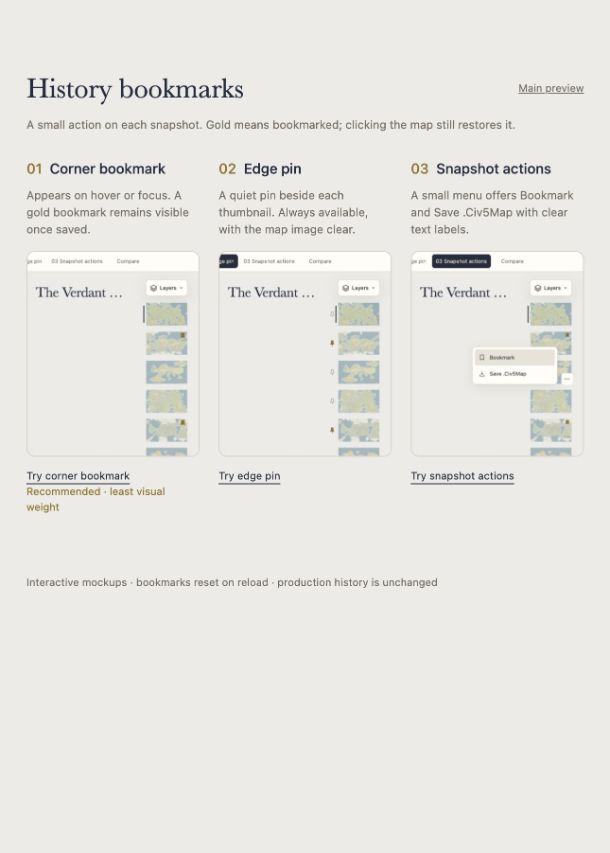
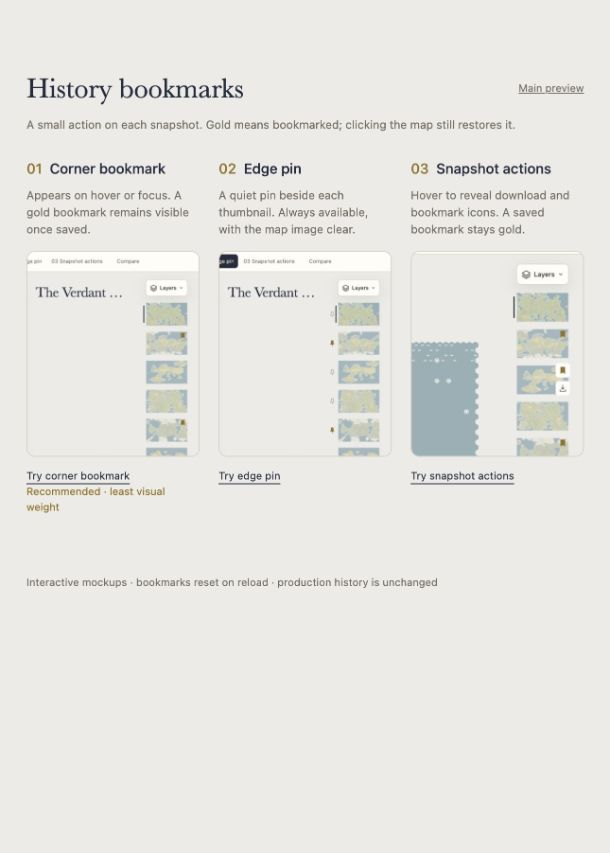
feat(mockups): show direct snapshot actions on hover
Replace the 03 ellipsis menu with download and bookmark buttons. Reveal both on hover or keyboard focus, retain the gold bookmark at rest, and keep each action independent of restoring a snapshot.

Verified pointer and keyboard toggles, idle and focus visibility, retained bookmark state, JavaScript syntax and scoped ESLint. Refresh the comparison and previews.

Changed region(s): [[0.6541, 0.3048, 0.9344, 0.5487], [0.6541, 0.2134, 0.9344, 0.3658]]

diff --git a/mockups/v3/history-bookmarks/studies.js b/mockups/v3/history-bookmarks/studies.js
@@ -1,53 +1,37 @@
 /* Isolated bookmark studies. Never open or update the persistent snapshot store. */
 (() => {
   const variant=document.body.dataset.bookmarkStudy,list=$('world-list'),bookmarks=new Set();
-  const paths={bookmark:'<path class="bookmark-shape" d="M6 3h12v18l-6-4-6 4Z"/>',pin:'<path class="pin-head" d="M8 3h8l-1 7 3 4v2H6v-2l3-4Z"/><path d="M12 16v6"/>',more:'<circle cx="5" cy="12" r="1"/><circle cx="12" cy="12" r="1"/><circle cx="19" cy="12" r="1"/>',download:'<path d="M12 3v12m-4-4 4 4 4-4M4 16v5h16v-5"/>'};
+  const paths={bookmark:'<path class="bookmark-shape" d="M6 3h12v18l-6-4-6 4Z"/>',pin:'<path class="pin-head" d="M8 3h8l-1 7 3 4v2H6v-2l3-4Z"/><path d="M12 16v6"/>',download:'<path d="M12 3v12m-4-4 4 4 4-4M4 16v5h16v-5"/>'};
   const svg=key=>`<svg viewBox="0 0 24 24" fill="none" stroke="currentColor" stroke-width="1.5" stroke-linecap="round" stroke-linejoin="round" aria-hidden="true">${paths[key]}</svg>`;
   const original=current;
   history=[...samples.slice(1),...samples.slice(1)].map(sample=>{const world=sampleWorld(sample);world.change='Study snapshot';return world;});
   history.push(original);
   const shown=[...history].reverse();for(const index of [1,4])if(shown[index])bookmarks.add(shown[index].uid);
   const note=document.createElement('small');note.className='bookmark-study-note';note.textContent='Mockup · bookmarks reset on reload';document.querySelector('.workspace').append(note);
-  const menu=document.createElement('div');menu.className='snapshot-menu';menu.id='snapshot-actions';menu.hidden=true;menu.setAttribute('role','menu');menu.setAttribute('aria-label','Snapshot actions');document.body.append(menu);
-  let openAction=null;
-  function closeMenu(focus=false){const button=openAction;menu.hidden=true;openAction=null;button?.setAttribute('aria-expanded','false');if(focus)button?.focus({preventScroll:true});}
   function syncRow(row,button,world){
     const marked=bookmarks.has(world.uid);row.classList.toggle('is-bookmarked',marked);
-    if(variant==='actions'){
-      button.title=`Actions for ${world.title}`;button.setAttribute('aria-label',button.title);
-      row.querySelector('.snapshot-bookmark-mark')?.remove();
-      if(marked){const mark=document.createElement('span');mark.className='snapshot-bookmark-mark';mark.innerHTML=svg('bookmark');mark.setAttribute('aria-hidden','true');row.append(mark);}
-      row.querySelector('.world-card').setAttribute('aria-description',marked?'Bookmarked':'');
-    }else{
-      const verb=variant==='pin'?(marked?'Unpin':'Pin'):(marked?'Remove bookmark from':'Bookmark');
-      button.setAttribute('aria-pressed',String(marked));button.title=`${verb} ${world.title}`;button.setAttribute('aria-label',button.title);
-    }
+    const verb=variant==='pin'?(marked?'Unpin':'Pin'):(marked?'Remove bookmark from':'Bookmark');
+    button.setAttribute('aria-pressed',String(marked));button.title=`${verb} ${world.title}`;button.setAttribute('aria-label',button.title);
+    row.querySelector('.world-card').setAttribute('aria-description',marked?'Bookmarked':'');
   }
   function toggle(row,button,world){if(bookmarks.has(world.uid))bookmarks.delete(world.uid);else bookmarks.add(world.uid);syncRow(row,button,world);toast(bookmarks.has(world.uid)?'Bookmarked for this mockup.':'Bookmark removed.');}
   function saveSnapshot(world){
     try{const bytes=window.V3ExistingRules.save(world.map,world.originalBytes),url=URL.createObjectURL(new Blob([bytes],{type:'application/octet-stream'})),link=document.createElement('a');link.href=url;link.download=(world.map.name||world.title||'Excogitare map').replace(/[\\/:*?"<>|]/g,'-')+'.Civ5Map';document.body.append(link);link.click();link.remove();setTimeout(()=>URL.revokeObjectURL(url),60000);}
     catch(error){toast(error.message||'This snapshot could not be saved.');}
   }
-  function openMenu(row,button,world){
-    if(openAction===button){closeMenu(true);return;}closeMenu();openAction=button;button.setAttribute('aria-expanded','true');menu.replaceChildren();
-    const bookmark=document.createElement('button');bookmark.type='button';bookmark.setAttribute('role','menuitemcheckbox');bookmark.setAttribute('aria-checked',String(bookmarks.has(world.uid)));bookmark.innerHTML=svg('bookmark')+'<span>Bookmark</span>';bookmark.onclick=()=>{toggle(row,button,world);closeMenu(true);};
-    const save=document.createElement('button');save.type='button';save.setAttribute('role','menuitem');save.innerHTML=svg('download')+'<span>Save .Civ5Map</span>';save.onclick=()=>{closeMenu(true);saveSnapshot(world);};menu.append(bookmark,save);menu.hidden=false;
-    const rect=button.getBoundingClientRect();menu.style.left=`${Math.max(8,rect.left-menu.offsetWidth-8)}px`;menu.style.top=`${Math.max(8,Math.min(innerHeight-menu.offsetHeight-8,rect.bottom-menu.offsetHeight))}px`;bookmark.focus({preventScroll:true});
-  }
   const baseRender=renderShelf;
   renderShelf=function(){
-    closeMenu();baseRender();const worlds=history.filter(world=>!showKept||world.kept).reverse();
+    baseRender();const worlds=history.filter(world=>!showKept||world.kept).reverse();
     for(const [index,card] of [...list.children].entries()){
       const world=worlds[index];if(!world)continue;
       const row=document.createElement('div');row.className='snapshot-row';row.dataset.snapshotId=String(world.uid);card.replaceWith(row);row.append(card);
-      const button=document.createElement('button');button.type='button';button.className='snapshot-action';button.innerHTML=svg(variant==='pin'?'pin':variant==='actions'?'more':'bookmark');
-      if(variant==='actions'){button.setAttribute('aria-haspopup','menu');button.setAttribute('aria-expanded','false');button.setAttribute('aria-controls',menu.id);}
-      button.onclick=event=>{event.stopPropagation();if(variant==='actions')openMenu(row,button,world);else toggle(row,button,world);};row.append(button);syncRow(row,button,world);
+      const button=document.createElement('button');button.type='button';button.className='snapshot-action snapshot-bookmark';button.innerHTML=svg(variant==='pin'?'pin':'bookmark');
+      button.onclick=event=>{event.stopPropagation();toggle(row,button,world);};row.append(button);syncRow(row,button,world);
+      if(variant==='actions'){
+        const download=document.createElement('button');download.type='button';download.className='snapshot-action snapshot-download';download.innerHTML=svg('download');download.title=`Download ${world.title} (.Civ5Map)`;download.setAttribute('aria-label',download.title);
+        download.onclick=event=>{event.stopPropagation();saveSnapshot(world);};row.append(download);
+      }
     }
   };
-  menu.addEventListener('keydown',event=>{const items=[...menu.querySelectorAll('button')],index=items.indexOf(document.activeElement);if(['ArrowDown','ArrowUp','Home','End'].includes(event.key)){event.preventDefault();const next=event.key==='Home'?0:event.key==='End'?items.length-1:(index+(event.key==='ArrowUp'?-1:1)+items.length)%items.length;items[next].focus();}if(event.key==='Tab')closeMenu();});
-  document.addEventListener('keydown',event=>{if(event.key==='Escape'&&!menu.hidden){event.preventDefault();closeMenu(true);}});
-  document.addEventListener('pointerdown',event=>{if(!menu.hidden&&!menu.contains(event.target)&&!openAction?.contains(event.target))closeMenu();});
-  list.addEventListener('scroll',()=>closeMenu(),{passive:true});window.addEventListener('resize',()=>closeMenu());
   renderShelf();scheduleFitRefresh();
 })();

diff --git a/mockups/v3/history-bookmarks/studies.css b/mockups/v3/history-bookmarks/studies.css
@@ -4,15 +4,13 @@ body.bookmark-study[data-history-layout=right]:not(.mobile-simple) .shelf,body.b
 body.bookmark-study[data-history-layout=right]:not(.mobile-simple) .world-list{padding-inline:8px}
 .snapshot-row{position:relative;flex:0 0 52px;width:112px;height:52px;scroll-snap-align:start}.snapshot-row>.world-card{margin-left:24px}
 .snapshot-action{position:absolute;z-index:1;right:-2px;top:-2px;width:24px;height:24px;min-height:24px;padding:5px;border:0;border-radius:5px;color:var(--brand-night);background:var(--paper);opacity:0;transition:opacity .12s,background .12s;cursor:pointer}
-.snapshot-action svg{width:14px;height:14px;display:block;flex:none}.snapshot-row:hover .snapshot-action,.snapshot-row:focus-within .snapshot-action,.snapshot-action[aria-expanded=true]{opacity:1}.snapshot-action:hover{background:#f5efdf}.snapshot-action:focus-visible{outline:2px solid var(--brand-night);outline-offset:2px}
-.snapshot-row.is-bookmarked .snapshot-action{opacity:1;color:#927019;background:transparent}.snapshot-row.is-bookmarked .snapshot-action .bookmark-shape{fill:currentColor}.snapshot-row.is-bookmarked .snapshot-action:hover,.snapshot-row.is-bookmarked .snapshot-action:focus-visible{background:var(--paper)}
+.snapshot-action svg{width:14px;height:14px;display:block;flex:none}.snapshot-row:hover .snapshot-action,.snapshot-row:focus-within .snapshot-action{opacity:1}.snapshot-action:hover{background:#f5efdf}.snapshot-action:focus-visible{outline:2px solid var(--brand-night);outline-offset:2px}
+.snapshot-row.is-bookmarked .snapshot-bookmark{opacity:1;color:#927019;background:transparent}.snapshot-row.is-bookmarked .snapshot-bookmark .bookmark-shape{fill:currentColor}.snapshot-row.is-bookmarked .snapshot-bookmark:hover,.snapshot-row.is-bookmarked .snapshot-bookmark:focus-visible{background:var(--paper)}
 body[data-bookmark-study=pin] .snapshot-action{right:auto;left:0;top:14px;background:transparent;opacity:.42;color:var(--brand-night)}
 body[data-bookmark-study=pin] .snapshot-row:hover .snapshot-action,body[data-bookmark-study=pin] .snapshot-row:focus-within .snapshot-action{opacity:1}
-body[data-bookmark-study=pin] .snapshot-row.is-bookmarked .snapshot-action{opacity:1;color:#927019}
+body[data-bookmark-study=pin] .snapshot-row.is-bookmarked .snapshot-bookmark{opacity:1;color:#927019}
 body[data-bookmark-study=pin] .snapshot-row.is-bookmarked .pin-head{fill:currentColor}
-body[data-bookmark-study=actions] .snapshot-action{top:auto;bottom:0}
-.snapshot-bookmark-mark{position:absolute;right:4px;top:2px;width:11px;height:14px;color:#927019;pointer-events:none}.snapshot-bookmark-mark svg{width:11px;height:14px;fill:currentColor}
-.snapshot-menu{position:fixed;z-index:50;width:180px;padding:5px;border:1px solid var(--line);border-radius:8px;background:var(--paper);box-shadow:0 5px 20px #252c4018}.snapshot-menu[hidden]{display:none}.snapshot-menu button{width:100%;padding:9px 8px;gap:9px;justify-content:flex-start;font-size:11px;min-height:34px;border-radius:4px;color:var(--ink);font-weight:400}.snapshot-menu button:hover,.snapshot-menu button:focus-visible{background:var(--soft);outline:none}.snapshot-menu button svg{width:14px;height:14px;flex:none}.snapshot-menu button[aria-checked=true]{color:#927019}.snapshot-menu button[aria-checked=true] .bookmark-shape{fill:currentColor}
+body[data-bookmark-study=actions] .snapshot-download{top:auto;bottom:0}
 .bookmark-study-note{position:absolute;bottom:16px;left:50%;transform:translateX(-50%);font-size:10px;color:var(--muted);pointer-events:none;white-space:nowrap}
 @media(prefers-reduced-motion:reduce){.snapshot-action{transition:none}}
 @media(max-width:1000px){.bookmark-study-nav>span{display:none}.bookmark-study-nav{justify-content:center;padding-inline:4px}.bookmark-study-nav a{padding-inline:8px}}

diff --git a/mockups/v3/history-bookmarks/index.html b/mockups/v3/history-bookmarks/index.html
@@ -4,5 +4,5 @@
 </style></head><body><header><h1>History bookmarks</h1><a href="../">Main preview</a></header><p>A small action on each snapshot. Gold means bookmarked; clicking the map still restores it.</p><main>
 <article><a href="corner.html"><h2><span>01</span>Corner bookmark</h2><p>Appears on hover or focus. A gold bookmark remains visible once saved.</p><div class="detail"><img src="corner-preview.png" alt="Right history carousel with small gold bookmarks at the corners of saved snapshots"></div><span class="open">Try corner bookmark</span></a><p class="recommendation">Recommended · least visual weight</p></article>
 <article><a href="pin.html"><h2><span>02</span>Edge pin</h2><p>A quiet pin beside each thumbnail. Always available, with the map image clear.</p><div class="detail"><img src="pin-preview.png" alt="Small pins in a narrow gutter beside the map history thumbnails, with bookmarked pins in gold"></div><span class="open">Try edge pin</span></a></article>
-<article><a href="actions.html"><h2><span>03</span>Snapshot actions</h2><p>A small menu offers Bookmark and Save .Civ5Map with clear text labels.</p><div class="detail"><img src="actions-preview.png" alt="Snapshot menu opening over the canvas with Bookmark and Save Civ5Map actions"></div><span class="open">Try snapshot actions</span></a></article>
+<article><a href="actions.html"><h2><span>03</span>Snapshot actions</h2><p>Hover to reveal download and bookmark icons. A saved bookmark stays gold.</p><div class="detail"><img src="actions-preview.png" alt="History thumbnail with direct bookmark and download icons revealed"></div><span class="open">Try snapshot actions</span></a></article>
 </main><footer>Interactive mockups · bookmarks reset on reload · production history is unchanged</footer></body></html>

diff --git a/docs/features/v3-history-bookmark-studies.md b/docs/features/v3-history-bookmark-studies.md
@@ -6,14 +6,14 @@ Produce three interactive mockups for a subtle save/bookmark control on each his
 
 - **01 Corner bookmark:** a small corner control revealed on hover/focus, with a persistent gold mark when selected.
 - **02 Edge pin:** an always-available pin beside each preview, leaving the map image clear.
-- **03 Snapshot actions:** an unobtrusive menu with labelled Bookmark and Save .Civ5Map actions.
+- **03 Snapshot actions:** direct download and bookmark icons on hover or keyboard focus. Download occupies the former ellipsis position at the lower right; bookmark occupies the upper right and stays gold when selected.
 
 ## Completion gates
 
 - Isolated pages under `mockups/v3/history-bookmarks/` reuse current production assets. Bookmarks and prepared history are session-only and do not access the user's persistent history.
 - Bookmarking toggles a local study flag. It is not a claim of durable retention; production capacity/eviction changes require subsequent approval.
-- Check bookmark toggles, retained marks after restoring snapshots, independence from the active map, keyboard focus and menu dismissal. Check the existing carousel fade, panel alignment and clear map framing.
-- Generation, workers, map schema, cloning, placement rules, Repair and export format remain unchanged. The action-menu download uses the existing map writer and supported validation.
+- Check bookmark toggles, retained marks after restoring snapshots, independence from the active map, keyboard focus and independent download/bookmark actions. Check the existing carousel fade, panel alignment and clear map framing.
+- Generation, workers, map schema, cloning, placement rules, Repair and export format remain unchanged. The snapshot download uses the existing map writer and supported validation.
 - Save screenshots and provide a linked comparison page. Run scoped syntax/lint and whitespace checks. No new domain tests or production build is required for isolated presentation studies.
 - Reconcile this record and the register, then commit the checked mockups. Do not push.
 
@@ -21,7 +21,13 @@ Produce three interactive mockups for a subtle save/bookmark control on each his
 
 - Added three linked live pages and a comparison page with actual browser captures. Each study reuses the active Generate/Refine interface, layers and existing carousel styling.
 - Verified bookmark/pin toggles through keyboard activation, retained marks after restoring another snapshot, unchanged active map during bookmarking, and reset on reload. Separate sibling buttons avoid nested interactive controls.
-- Verified action-menu bookmarking, arrow navigation, Escape dismissal and trigger state. The menu overlays the canvas. The Save action invokes the existing writer without restoring the selected snapshot; no console error occurred, but the browser download-event wait timed out, so file delivery is not claimed as verified.
-- Visually reviewed all three variants and their 14px glyphs/24px targets. At the observed 823px viewport, the history fade ends 32px above the sidebar bottom; the thumbnail remains 88×52px. Resizing also dismisses the action menu.
+- The initial menu version passed bookmarking, arrow navigation and Escape checks. It is superseded by the direct-action revision below. The download action still invokes the existing writer; the earlier browser download-event wait timed out, so file delivery is not claimed as verified.
+- Visually reviewed all three variants and their 14px glyphs/24px targets. At the observed 823px viewport, the history fade ends 32px above the sidebar bottom; the thumbnail remains 88×52px. The current revision retains this carousel layout.
 - Scoped JavaScript syntax, ESLint and whitespace checks pass. No production assets, map rules or persistent history were changed. Domain tests, production builds and Alpine are inapplicable to this isolated mockup change.
 - The register and study README describe session-only bookmarking and defer production persistence/retention behavior. Captures: [corner](../../mockups/v3/history-bookmarks/corner-preview.png), [pin](../../mockups/v3/history-bookmarks/pin-preview.png), [actions](../../mockups/v3/history-bookmarks/actions-preview.png).
+
+## Direct-action revision
+
+Verified: 03 now has direct download and bookmark buttons with 14px icons and 24px targets. Download replaces the ellipsis at the lower right; bookmark sits at the upper right. Both reveal on thumbnail hover or keyboard focus. Only an active gold bookmark remains visible at rest.
+
+Browser checks confirmed idle visibility (both hidden on an unmarked row; only the gold bookmark visible on a marked row), both icons visible on hover/focus, pointer and keyboard bookmarking without changing the active map, retained flags after restoring another snapshot, separate Tab targets and no remaining menu. Syntax, scoped ESLint and whitespace checks pass. The comparison text and screenshots are refreshed. The download handler is unchanged; its previously recorded delivery limitation remains.

diff --git a/docs/feature-implementation-reference.md b/docs/feature-implementation-reference.md
@@ -33,7 +33,7 @@ Runtime code changes also require the Alpine image/container check when the loca
 
 | Feature | Status | Approved scope | Open work |
 |---|---|---|---|
-| [V3 history bookmark studies](features/v3-history-bookmark-studies.md) | Verified | Three interactive treatments for subtle per-snapshot bookmarking or saving within the existing right history carousel. | Three live studies, comparison and screenshots; bookmark/restore independence, keyboard menu behavior and carousel bounds checked. Syntax/lint pass. Mockup state is session-only; download delivery was not confirmed. |
+| [V3 history bookmark studies](features/v3-history-bookmark-studies.md) | Verified | Three interactive treatments for subtle per-snapshot bookmarking or saving within the existing right history carousel. | 03 now reveals direct download and bookmark icons on hover/focus. Pointer/keyboard actions, bookmark retention and idle visibility checked; comparison refreshed. Syntax/lint pass. Mockup state is session-only; download delivery was not confirmed. |
 | [V3 Refine integration](features/v3-refine-integration.md) | Verified | Integrate approved 04: Generate-style fields, independent global/local adjustments, region/area/tile selection, preview/apply, undo/redo and grouped repairs. | 47 checks, types/lint and production/Pages builds pass. Browser edits, selections, global preview, repairs, 100-entry undo recovery and fixed bounds verified. Alpine unavailable; climate and placement limits are documented. |
 | [V3 Refine Generate-style study](features/v3-refine-generate-style.md) | Verified | Fourth mockup with Generate-style fields, geographic-region/area/tile selection and clearer regional selection guidance. | Approved 04 is integrated in V3 Refine integration; the mockup remains a design reference. |
 | [V3 Refine workflow studies](features/v3-refine-studies.md) | Verified | Three Refine layouts with separate Global changes and Local refinement sections, geographic/custom-region selection, shared preview/apply, checks and undo/redo. | Global/local and selection studies are verified. The later approved 04 layout is integrated in V3 Refine integration; these three remain alternatives. |

diff --git a/mockups/v3/history-bookmarks/README.md b/mockups/v3/history-bookmarks/README.md
@@ -4,8 +4,8 @@ Open [the comparison](index.html) to try three isolated alternatives:
 
 1. **Corner bookmark** — reveal a 14px bookmark on hover or keyboard focus; a gold bookmark stays visible once selected. Recommended for the least extra visual weight.
 2. **Edge pin** — keep a quiet pin beside each thumbnail, preserving the full map preview. More discoverable, with a slightly wider action area.
-3. **Snapshot actions** — open a small labelled menu for Bookmark or Save .Civ5Map. Clearest when both local bookmarking and file downloads are wanted.
+3. **Snapshot actions** — reveal direct download and bookmark icons on hover or keyboard focus. Download sits at the lower right, replacing the ellipsis; bookmark sits at the upper right and remains gold when selected.
 
-Each action is independent of restoring the snapshot. Thumbnails remain small, borderless and newest-first, with the existing lower fade. The 24px action target is larger than its glyph. Keyboard focus reveals controls; menus support arrows, Escape and outside dismissal.
+Each action is independent of restoring the snapshot. Thumbnails remain small, borderless and newest-first, with the existing lower fade. The 24px action target is larger than its glyph. Keyboard focus reveals controls; Tab reaches each action independently.
 
-These pages use prepared maps and session-only flags. Bookmark persistence and protection from the 100-snapshot eviction limit are proposals for a later approved implementation. Production history is untouched. The menu's Save action uses the existing map writer and placement validation.
+These pages use prepared maps and session-only flags. Bookmark persistence and protection from the 100-snapshot eviction limit are proposals for a later approved implementation. Production history is untouched. The download action uses the existing map writer and placement validation.
